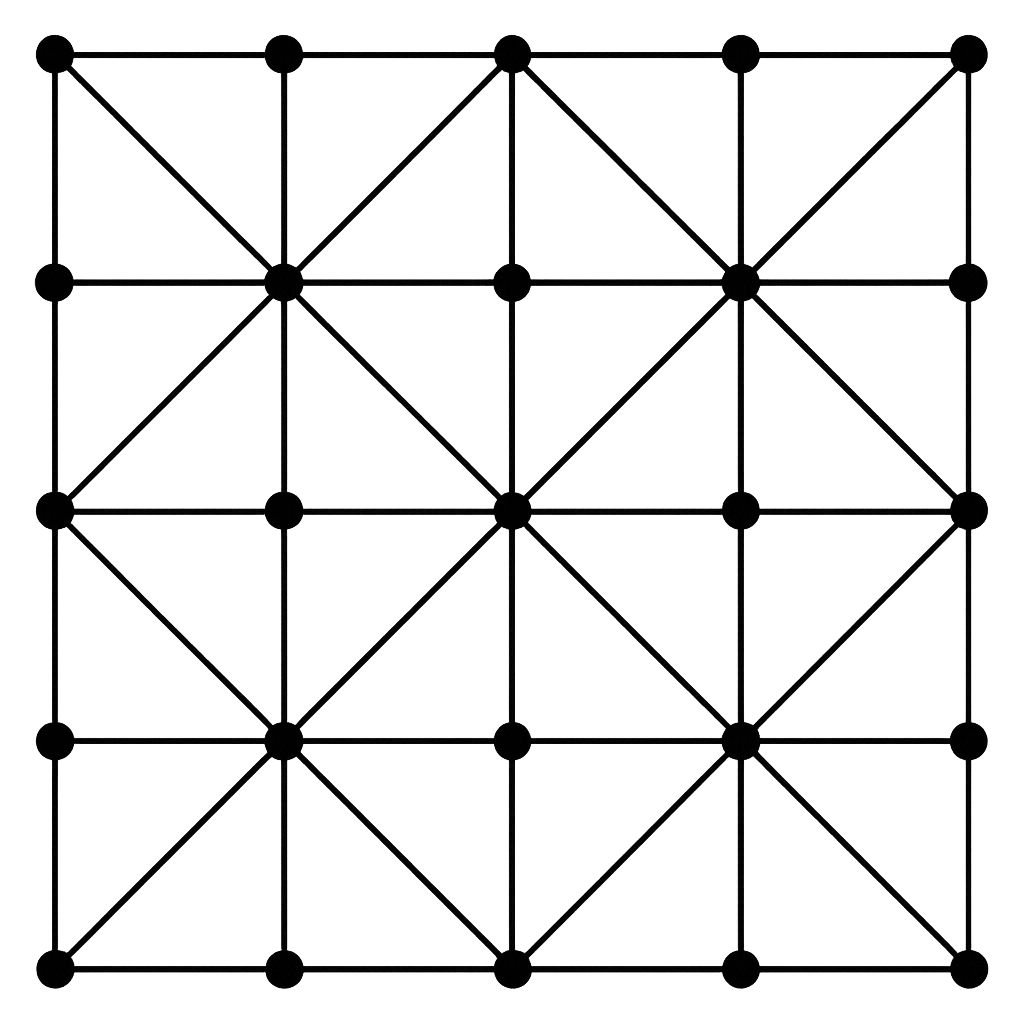
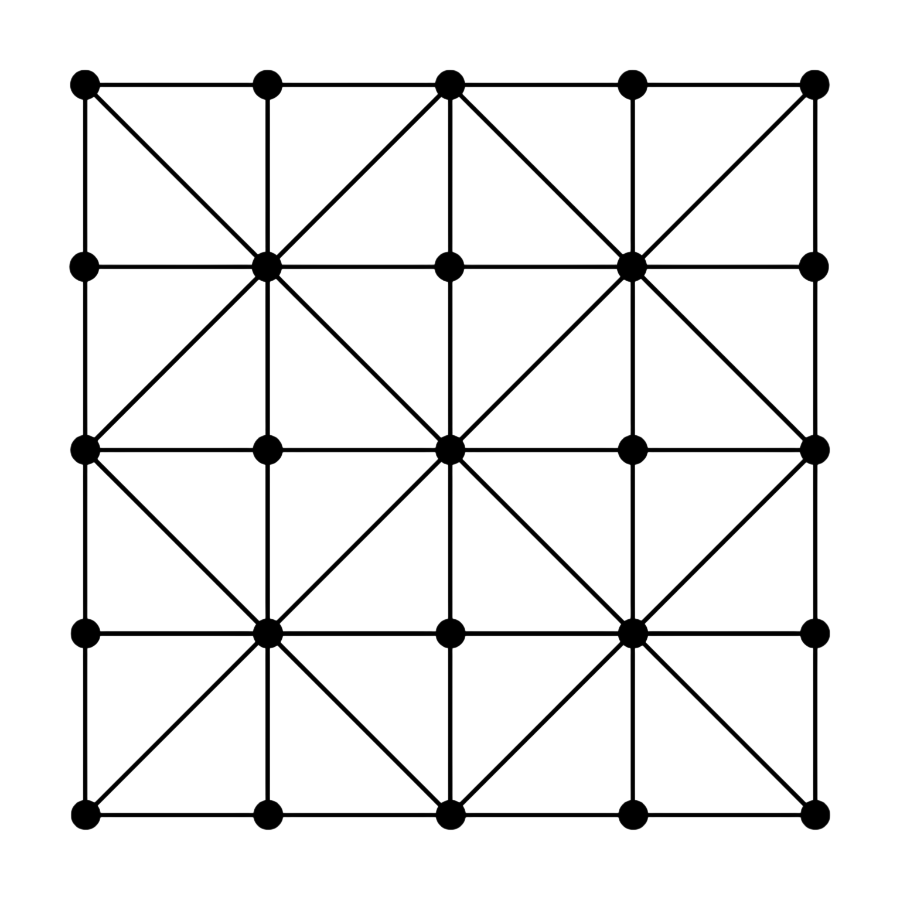
début plateau

diff --git a/src/alquerque/view/BoardLook.java b/src/alquerque/view/BoardLook.java
@@ -9,7 +9,7 @@ import javafx.scene.paint.Color;
 public class BoardLook extends GridLook {
 
     public BoardLook(ContainerElement board) {
-        super(200, 200, board, 0, 1, Color.TRANSPARENT);
+        super(180, 180, board, 0, 1, Color.TRANSPARENT);
 
         Image image = new Image(getClass().getResourceAsStream("/src/alquerque/Image/BackgroundBoard.png"));
         ImageView bg = new ImageView(image);

diff --git a/src/alquerque/view/PawnLook.java b/src/alquerque/view/PawnLook.java
@@ -23,8 +23,8 @@ public class PawnLook extends ElementLook {
 
         Image image = new Image(getClass().getResourceAsStream(file));
         imageView = new ImageView(image);
-        imageView.setFitWidth(100);
-        imageView.setFitHeight(100);
+        imageView.setFitWidth(60);
+        imageView.setFitHeight(60);
         addNode(imageView);
     }
 
